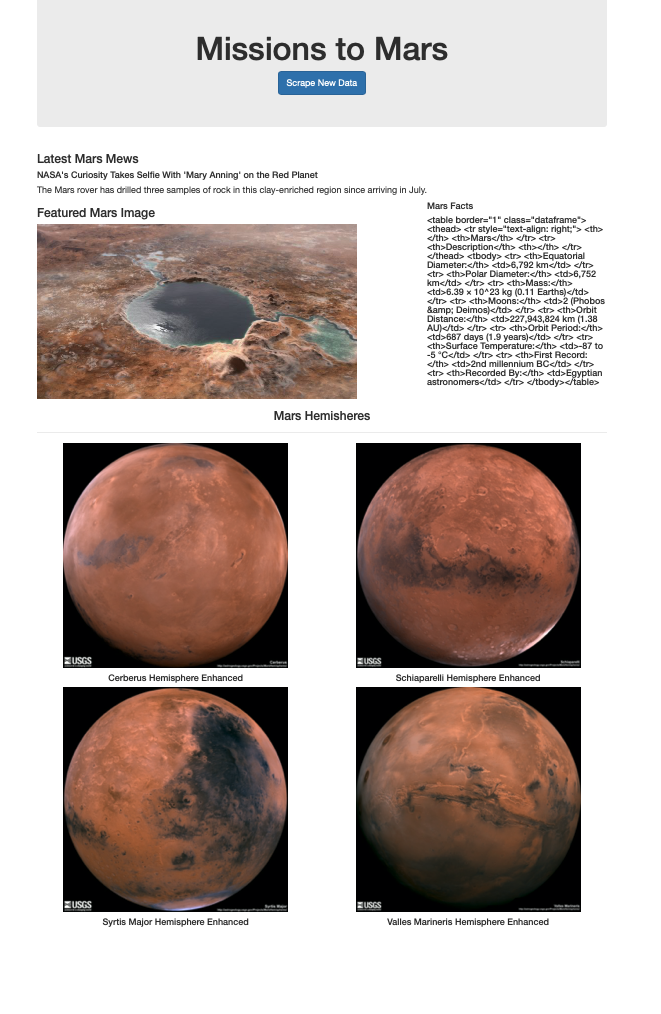
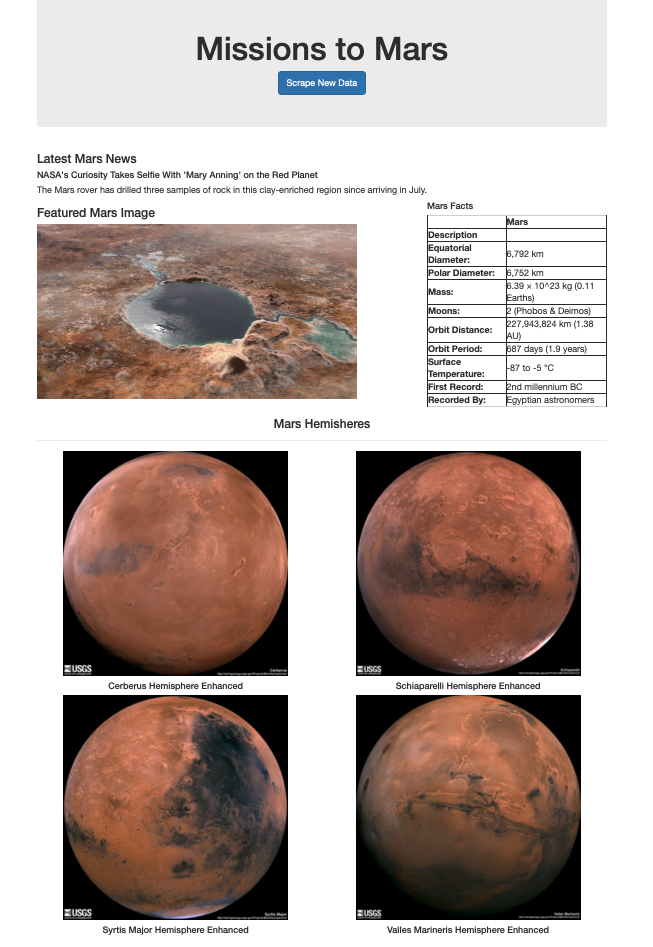
updates

diff --git a/Missions_to_Mars/templates/index.html b/Missions_to_Mars/templates/index.html
@@ -35,7 +35,7 @@
 
         <div class="row" id="latest_news">
             <div class="col-md-12">
-                <h3 class="heading">Latest Mars Mews</h3>
+                <h3 class="heading">Latest Mars News</h3>
                 <h6>{{mars.news_title}}</h6>
                 <small>{{mars.news_p}}</small>
             </div>
@@ -47,8 +47,7 @@
             </div>
             <div class="col-md-4">
                 <h4 class="heading">Mars Facts</h4>
-                <h5>{{mars.html_table}}</h5>
-                </table>
+                  {{mars.html_table|safe}}
             </div>
         </div>
         <div class="row" id="mars_hemisheres">
